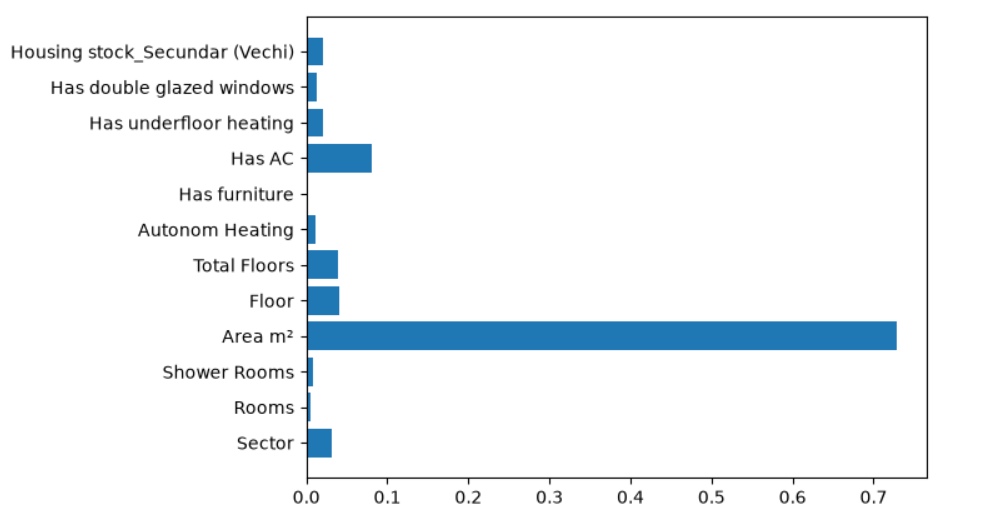
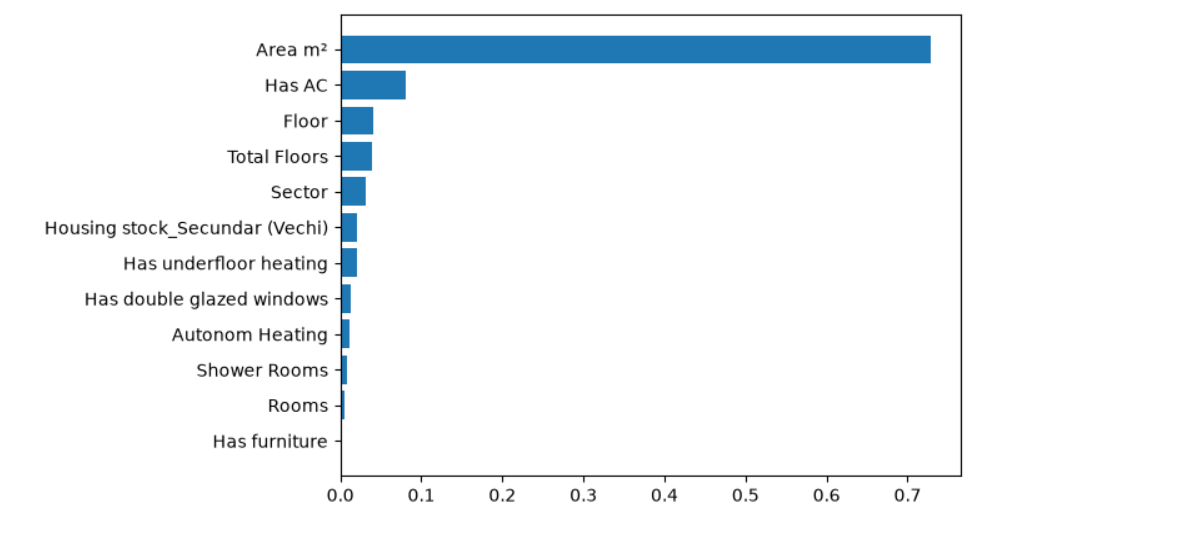
Updated readme, adjusted visualisations' titles and updated the image of features importance

Changed region(s): [[0.0, 0.0, 0.9245, 0.9846]]

diff --git a/README.md b/README.md
@@ -12,7 +12,7 @@ Scraped 1043 apartment listings from [immobiliare.md](https://immobiliare.md), c
 4. **How much does sector influence price vs area?** -  Area is ~6.9 more influential than sector on price 
 
 ## Model Performance
-| Model | Avg R² (CV) | MAE (thousands €) |
+| Model | Average R² | MAE |
 |---|---|---|
 | Linear Regression | 0.744 | 22.2 |
 | Random Forest | 0.754 | 23.17 |
@@ -31,7 +31,7 @@ Scraped 1043 apartment listings from [immobiliare.md](https://immobiliare.md), c
 - `scraper/load_to_sql.py` - Creating slite3 database
 - `notebooks/Real Estate Analysis.ipynb` - Full EDA + modeling pipeline
 - `sql/queries` - SQL queries
-- `dashboards` - Power BI dashboard
+- `dashboards/Real_estate_dashboards.pbix` - Interactive Power BI dashboard
 
 ## How to Run
 
@@ -64,9 +64,13 @@ Queries used in the analysis are in `sql/queries/` (includes a window-function q
 
 ## Dashboard
 
-An interactive Power BI dashboard (`dashboards/Real_estate_dashboards.pbix`) visualizes the cleaned data across three pages: sector analysis, feature drivers of price using the Random Forest feature importances, and a top-10 listings table powered by the `top_10` SQL view.
+An interactive Power BI dashboard (`dashboards/Real_estate_dashboards.pbix`) visualizes the analysis across three pages:
 
-To open it: run the notebook once to populate `aparts_cleaned`, then open the `.pbix` file in Power BI Desktop and refresh the data source.
+1. **Sector Analysis**: Listing counts, median prices, and mean-vs-median price comparison by sector which shows Ciocana's price stability.
+2. **Price Drivers**: Feature importance from the Random Forest model and scatter plot showing Area's dominance in price prediction.
+3. **Top Listings**: Top 10 most expensive apartments from the SQL `top_10` view with key details (sector, rooms, price, area).
+
+To open: Run the notebook once to populate `aparts_cleaned`, then open the `.pbix` file in Power BI Desktop and refresh the data source.
 
 ## Tech Stack
 
@@ -74,7 +78,8 @@ To open it: run the notebook once to populate `aparts_cleaned`, then open the `.
 - **Analysis**: pandas, numpy, matplotlib, seaborn
 - **ML**: scikit-learn (Linear Regression, Random Forest)
 - **Database**: sqlite, SQL (window functions, views)
-- **Dashobard**: Power BI
+- **BI**: Power BI
+
 ## Future Work
 
 - Expand data 